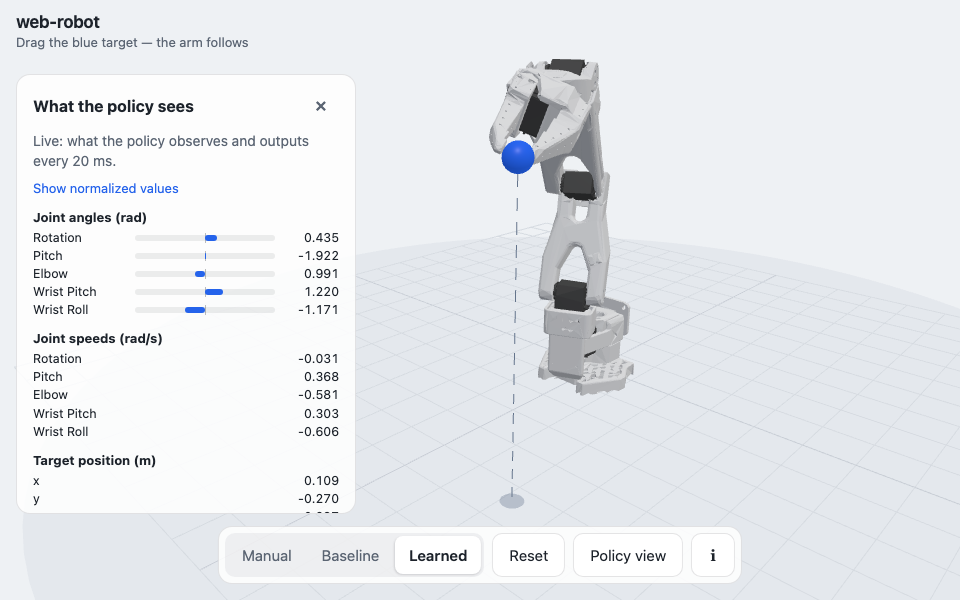
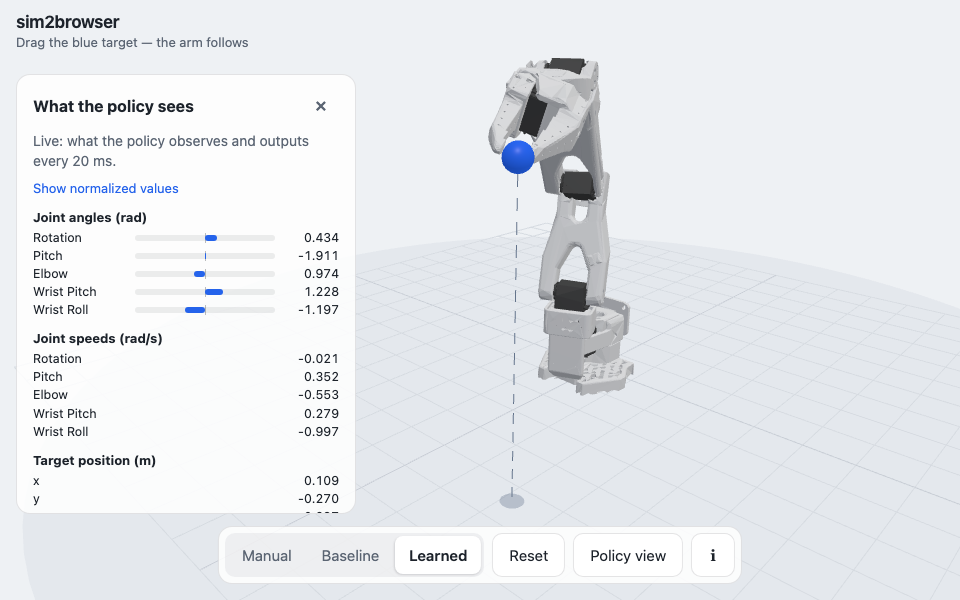
chore: rename project to sim2browser
Rename before publishing: 'web-robot' is shared by ~1000 repos, while
'sim2browser' names the pipeline (train in simulation, run a verified
copy in the browser) and stays accurate as the project grows.

- Site base path /web-robot/ -> /sim2browser/ (Vite, Playwright, e2e)
- Package names, page title and header, README, test hook
  window.__sim2browser, sessionStorage key
- Constitution v1.0.2 (PATCH): project name only, no principle changed
- tasks.md: note that completed tasks keep the original name as record
- Demo GIF and screenshot re-recorded with the new header
- Full suite re-run: 41 unit, 14 training, 6 parity, 43 e2e, size budget

diff --git a/web/tests/e2e/p1.spec.ts b/web/tests/e2e/p1.spec.ts
@@ -35,26 +35,26 @@ test.describe("P1: see and pose the arm @p1", () => {
     await page.waitForTimeout(500);
 
     // (b) dragging empty space orbits the camera
-    const cam0 = await page.evaluate(() => window.__webRobot.camera());
+    const cam0 = await page.evaluate(() => window.__sim2browser.camera());
     await page.mouse.move(60, 200);
     await page.mouse.down();
     await page.mouse.move(160, 240, { steps: 10 });
     await page.mouse.up();
     await page.waitForTimeout(300);
-    const cam1 = await page.evaluate(() => window.__webRobot.camera());
+    const cam1 = await page.evaluate(() => window.__sim2browser.camera());
     expect(cam0.some((v, i) => Math.abs(v - cam1[i]) > 1e-3)).toBe(true);
 
     // Reset the view angle influence: reload for a known camera.
     await page.reload();
     await waitReady(page);
     await page.waitForTimeout(500);
-    const limits = await page.evaluate(() => window.__webRobot.limits());
+    const limits = await page.evaluate(() => window.__sim2browser.limits());
 
     // (c) dragging the upper arm moves its joint (Pitch, index 1)
-    const qBefore = await page.evaluate(() => Array.from(window.__webRobot.snapshot!.q));
+    const qBefore = await page.evaluate(() => Array.from(window.__sim2browser.snapshot!.q));
     await dragLink(page, "Upper_Arm", 40, 0, 10);
     await page.waitForTimeout(600);
-    const qAfter = await page.evaluate(() => Array.from(window.__webRobot.snapshot!.q));
+    const qAfter = await page.evaluate(() => Array.from(window.__sim2browser.snapshot!.q));
     expect(Math.abs(qAfter[1] - qBefore[1])).toBeGreaterThan(0.05);
 
     // (d) dragging far past a limit holds the joint at its limit, with no teleports: joint speed
@@ -82,8 +82,8 @@ test.describe("P1: see and pose the arm @p1", () => {
     expect(maxSpeed).toBeLessThanOrEqual(4);
 
     // (e) 10 s of continuous posing stays smooth (SC-002)
-    await page.evaluate(() => window.__webRobot.resetFrameStats());
-    const pt = await page.evaluate(() => window.__webRobot.linkScreenPoint("Lower_Arm"));
+    await page.evaluate(() => window.__sim2browser.resetFrameStats());
+    const pt = await page.evaluate(() => window.__sim2browser.linkScreenPoint("Lower_Arm"));
     await page.mouse.move(pt![0], pt![1]);
     await page.mouse.down();
     const tEnd = Date.now() + 10_000;
@@ -95,8 +95,8 @@ test.describe("P1: see and pose the arm @p1", () => {
     }
     await page.mouse.up();
     const { fps, maxFrameGapMs } = await page.evaluate(() => ({
-      fps: window.__webRobot.fps,
-      maxFrameGapMs: window.__webRobot.maxFrameGapMs,
+      fps: window.__sim2browser.fps,
+      maxFrameGapMs: window.__sim2browser.maxFrameGapMs,
     }));
     info.annotations.push({ type: "fps", description: fps.toFixed(1) });
     info.annotations.push({ type: "max-frame-gap-ms", description: maxFrameGapMs.toFixed(1) });
@@ -113,12 +113,12 @@ test.describe("P1: see and pose the arm @p1", () => {
     await page.goto("./");
     await waitReady(page);
     await page.waitForTimeout(300);
-    const q0 = await page.evaluate(() => Array.from(window.__webRobot.snapshot!.q));
+    const q0 = await page.evaluate(() => Array.from(window.__sim2browser.snapshot!.q));
     await dragLink(page, "Upper_Arm", 80, 0, 10);
     await page.waitForTimeout(800);
     await page.getByRole("button", { name: "Reset" }).click();
     await page.waitForTimeout(300);
-    const q1 = await page.evaluate(() => Array.from(window.__webRobot.snapshot!.q));
+    const q1 = await page.evaluate(() => Array.from(window.__sim2browser.snapshot!.q));
     q1.forEach((v, j) => expect(Math.abs(v - q0[j])).toBeLessThan(0.02));
   });
 });

diff --git a/web/tests/e2e/p3.spec.ts b/web/tests/e2e/p3.spec.ts
@@ -2,7 +2,7 @@ import type { Page } from "@playwright/test";
 import { collectConsoleErrors, dragTarget, tipToTarget, waitReady } from "./helpers";
 import { expect, test } from "./fixtures";
 
-const mode = (page: Page) => page.evaluate(() => window.__webRobot.snapshot!.mode);
+const mode = (page: Page) => page.evaluate(() => window.__sim2browser.snapshot!.mode);
 const selectLearned = async (page: Page) => {
   await page.getByRole("button", { name: "Learned" }).click();
   await expect.poll(() => mode(page), { timeout: 10_000 }).toBe("learned");
@@ -19,13 +19,13 @@ test.describe("P3: learned policy vs. baseline @p3", () => {
     const errors = collectConsoleErrors(page);
     await selectLearned(page);
     await dragTarget(page, 70, 50);
-    expect(await page.evaluate(() => window.__webRobot.snapshot!.reachable)).toBe(true);
+    expect(await page.evaluate(() => window.__sim2browser.snapshot!.reachable)).toBe(true);
     const reached = await page.evaluate(
       () =>
         new Promise<boolean>((resolve) => {
           const end = performance.now() + 2000;
           const check = () => {
-            const s = window.__webRobot.snapshot!;
+            const s = window.__sim2browser.snapshot!;
             const d = Math.hypot(
               s.tip[0] - s.target[0],
               s.tip[1] - s.target[1],
@@ -50,13 +50,13 @@ test.describe("P3: learned policy vs. baseline @p3", () => {
     await page.waitForTimeout(150); // mid-reach
     for (const next of ["Baseline", "Learned", "Baseline"]) {
       const before = await page.evaluate(() => {
-        const s = window.__webRobot.snapshot!;
+        const s = window.__sim2browser.snapshot!;
         return { t: s.t, q: [...s.q], target: [...s.target] };
       });
       await page.getByRole("button", { name: next }).click();
       await expect.poll(() => mode(page)).toBe(next.toLowerCase());
       const after = await page.evaluate(() => {
-        const s = window.__webRobot.snapshot!;
+        const s = window.__sim2browser.snapshot!;
         return { t: s.t, q: [...s.q], target: [...s.target] };
       });
       expect(after.target).toEqual(before.target);
@@ -65,7 +65,9 @@ test.describe("P3: learned policy vs. baseline @p3", () => {
       const dt = after.t - before.t;
       after.q.forEach((v, j) => expect(Math.abs(v - before.q[j])).toBeLessThan(2.6 * dt + 0.02));
     }
-    expect(tipToTarget(await page.evaluate(() => window.__webRobot.snapshot!))).toBeLessThan(0.5);
+    expect(tipToTarget(await page.evaluate(() => window.__sim2browser.snapshot!))).toBeLessThan(
+      0.5,
+    );
   });
 
   test("the policy view updates live while dragging", async ({ page }) => {
@@ -75,7 +77,7 @@ test.describe("P3: learned policy vs. baseline @p3", () => {
     await expect(panel).toBeVisible();
     await expect(panel).toContainText("Joint angles");
     await expect(panel).toContainText("joint 5 command");
-    const pt = (await page.evaluate(() => window.__webRobot.targetScreenPoint()))!;
+    const pt = (await page.evaluate(() => window.__sim2browser.targetScreenPoint()))!;
     await page.mouse.move(pt[0], pt[1]);
     await page.mouse.down();
     const seen = new Set<string>();

diff --git a/web/tests/e2e/p2.spec.ts b/web/tests/e2e/p2.spec.ts
@@ -4,7 +4,7 @@ import { expect, test } from "./fixtures";
 type Snap = { t: number; tip: number[]; target: number[]; reachable: boolean; mode: string };
 const snap = (page: import("@playwright/test").Page) =>
   page.evaluate((): Snap => {
-    const s = window.__webRobot.snapshot!;
+    const s = window.__sim2browser.snapshot!;
     return { t: s.t, tip: [...s.tip], target: [...s.target], reachable: s.reachable, mode: s.mode };
   });
 
@@ -16,7 +16,7 @@ async function watch(page: import("@playwright/test").Page, ms: number): Promise
         const out: Snap[] = [];
         const end = performance.now() + ms;
         const rec = () => {
-          const s = window.__webRobot.snapshot!;
+          const s = window.__sim2browser.snapshot!;
           if (!out.length || out[out.length - 1].t !== s.t)
             out.push({
               t: s.t,
@@ -57,11 +57,11 @@ test.describe("P2: baseline reaches the target @p2", () => {
   });
 
   test("follows a continuous circular drag without stalls", async ({ page }) => {
-    const pt = (await page.evaluate(() => window.__webRobot.targetScreenPoint()))!;
+    const pt = (await page.evaluate(() => window.__sim2browser.targetScreenPoint()))!;
     // Start the circle on a reachable point a little toward the base.
     await dragTarget(page, 60, 30);
     await page.waitForTimeout(1500);
-    const c = (await page.evaluate(() => window.__webRobot.targetScreenPoint()))!;
+    const c = (await page.evaluate(() => window.__sim2browser.targetScreenPoint()))!;
     await page.mouse.move(c[0], c[1]);
     await page.mouse.down();
     const recording = watch(page, 3000);
@@ -93,7 +93,7 @@ test.describe("P2: baseline reaches the target @p2", () => {
     const touch =
       info.project.name === "mobile-chromium" ? await page.context().newCDPSession(page) : null;
     for (let i = 0; i < 30 && (await snap(page)).reachable; i++) {
-      const [x, y] = (await page.evaluate(() => window.__webRobot.targetScreenPoint()))!;
+      const [x, y] = (await page.evaluate(() => window.__sim2browser.targetScreenPoint()))!;
       if (!touch) {
         await page.mouse.move(x, y);
         await page.mouse.wheel(0, -120);

diff --git a/web/tests/e2e/helpers.ts b/web/tests/e2e/helpers.ts
@@ -23,14 +23,14 @@ export interface Hook {
 
 declare global {
   interface Window {
-    __webRobot: Hook;
+    __sim2browser: Hook;
     __qTrace?: { stop: boolean; rows: { t: number; q: number[] }[] };
   }
 }
 
 export async function waitReady(page: Page, timeout = 20_000) {
   await page.waitForFunction(
-    () => window.__webRobot?.ready && window.__webRobot.snapshot !== null,
+    () => window.__sim2browser?.ready && window.__sim2browser.snapshot !== null,
     null,
     {
       timeout,
@@ -45,7 +45,7 @@ export async function startQTrace(page: Page) {
     window.__qTrace = trace;
     const rec = () => {
       if (trace.stop) return;
-      const s = window.__webRobot.snapshot as unknown as { t: number; q: Float64Array } | null;
+      const s = window.__sim2browser.snapshot as unknown as { t: number; q: Float64Array } | null;
       const last = trace.rows[trace.rows.length - 1];
       if (s && (!last || s.t !== last.t)) trace.rows.push({ t: s.t, q: Array.from(s.q) });
       requestAnimationFrame(rec);
@@ -64,7 +64,7 @@ export async function stopQTrace(page: Page): Promise<{ t: number; q: number[] }
 
 /** Drag from the middle of a link with small mouse steps, one per frame. */
 export async function dragLink(page: Page, link: string, dx: number, dy: number, steps: number) {
-  const pt = await page.evaluate((l) => window.__webRobot.linkScreenPoint(l), link);
+  const pt = await page.evaluate((l) => window.__sim2browser.linkScreenPoint(l), link);
   if (!pt) throw new Error(`no screen point for ${link}`);
   await page.mouse.move(pt[0], pt[1]);
   await page.mouse.down();
@@ -86,7 +86,7 @@ export function collectConsoleErrors(page: Page): string[] {
 
 /** Drag the target by (dx, dy) pixels with one mouse step per frame. */
 export async function dragTarget(page: Page, dx: number, dy: number, steps = 20) {
-  const pt = await page.evaluate(() => window.__webRobot.targetScreenPoint());
+  const pt = await page.evaluate(() => window.__sim2browser.targetScreenPoint());
   if (!pt) throw new Error("no target on screen");
   await page.mouse.move(pt[0], pt[1]);
   await page.mouse.down();

diff --git a/web/tests/e2e/soak.spec.ts b/web/tests/e2e/soak.spec.ts
@@ -31,9 +31,9 @@ test("soak: random interaction stays healthy @soak", async ({ page }, info) => {
       __soak: { bad: string[]; lastT: number; lastAt: number; maxGap: number };
     };
     w.__soak = { bad: [], lastT: -1, lastAt: performance.now(), maxGap: 0 };
-    const limits = window.__webRobot.limits();
+    const limits = window.__sim2browser.limits();
     const check = () => {
-      const s = window.__webRobot.snapshot as unknown as {
+      const s = window.__sim2browser.snapshot as unknown as {
         t: number;
         q: Float64Array;
         tip: Float64Array;
@@ -74,7 +74,9 @@ test("soak: random interaction stays healthy @soak", async ({ page }, info) => {
     } else if (r < 0.35) {
       // Target drag (P2 on), sometimes far enough to leave the reachable workspace.
       const pt = await page.evaluate(() =>
-        "targetScreenPoint" in window.__webRobot ? window.__webRobot.targetScreenPoint() : null,
+        "targetScreenPoint" in window.__sim2browser
+          ? window.__sim2browser.targetScreenPoint()
+          : null,
       );
       if (pt && pt[0] > 0 && pt[1] > 0 && pt[0] < vp.width && pt[1] < vp.height) {
         const far = rand() < 0.3 ? 3 : 1;
@@ -91,7 +93,7 @@ test("soak: random interaction stays healthy @soak", async ({ page }, info) => {
       }
     } else if (r < 0.6) {
       const pt = await page.evaluate(
-        (l) => window.__webRobot.linkScreenPoint(l),
+        (l) => window.__sim2browser.linkScreenPoint(l),
         links[Math.floor(rand() * links.length)],
       );
       if (pt && pt[0] > 0 && pt[1] > 0 && pt[0] < vp.width && pt[1] < vp.height) {

diff --git a/web/tests/e2e/static-only.spec.ts b/web/tests/e2e/static-only.spec.ts
@@ -13,8 +13,8 @@ test("only static same-origin GETs, no backend @p1 @p2 @p3", async ({ page, base
     const ok =
       req.method() === "GET" &&
       url.origin === origin &&
-      url.pathname.startsWith("/web-robot/") &&
-      (url.pathname === "/web-robot/" || STATIC.test(url.pathname));
+      url.pathname.startsWith("/sim2browser/") &&
+      (url.pathname === "/sim2browser/" || STATIC.test(url.pathname));
     if (!ok) bad.push(`${req.method()} ${req.url()}`);
   });
   await page.goto("./");
@@ -25,7 +25,7 @@ test("only static same-origin GETs, no backend @p1 @p2 @p3", async ({ page, base
   await page.getByRole("button", { name: "Baseline" }).click();
   // P3: switching to Learned loads the policy lazily, still as static files.
   await page.getByRole("button", { name: "Learned" }).click();
-  await page.waitForFunction(() => window.__webRobot.snapshot?.mode === "learned");
+  await page.waitForFunction(() => window.__sim2browser.snapshot?.mode === "learned");
   await page.getByRole("button", { name: "About the controllers" }).click();
   await page.waitForTimeout(500);
   expect(bad).toEqual([]);

diff --git a/web/vite.config.ts b/web/vite.config.ts
@@ -3,7 +3,7 @@ import { extname, join, relative, resolve } from "node:path";
 import { gzipSync } from "node:zlib";
 import { defineConfig, type Plugin } from "vite";
 
-const BASE = "/web-robot/";
+const BASE = "/sim2browser/";
 const SHARED = resolve(import.meta.dirname, "../shared");
 /** Runtime assets served to the page. Parity fixtures and tooling files stay out of the build. */
 const SHIPPED = ["parity.json", "workspace.bin", "robot", "policy"];
@@ -40,7 +40,7 @@ function shippedFiles(): string[] {
 /** Serves ../shared at <base>shared/ in dev and copies it into dist/shared/ on build. */
 function sharedAssets(): Plugin {
   return {
-    name: "web-robot-shared",
+    name: "sim2browser-shared",
     configureServer(server) {
       server.middlewares.use(`${BASE}shared/`, (req, res, next) => {
         const rel = decodeURIComponent((req.url ?? "").split("?")[0]).replace(/^\/+/, "");

diff --git a/web/tests/e2e/lab.spec.ts b/web/tests/e2e/lab.spec.ts
@@ -11,11 +11,11 @@ test("lab controllers are hidden on the public page and usable with ?lab @p3", a
   await waitReady(page);
   await page.getByRole("button", { name: "Jacobian T" }).click();
   await expect
-    .poll(() => page.evaluate(() => window.__webRobot.snapshot!.mode))
+    .poll(() => page.evaluate(() => window.__sim2browser.snapshot!.mode))
     .toBe("jacobian-transpose");
   await dragTarget(page, 60, 30);
   await page.waitForTimeout(2500);
-  const s = await page.evaluate(() => window.__webRobot.snapshot!);
+  const s = await page.evaluate(() => window.__sim2browser.snapshot!);
   expect(tipToTarget(s)).toBeLessThan(0.05);
   await page.getByRole("button", { name: "About the controllers" }).click();
   await expect(page.getByRole("region", { name: "About the controllers" })).toContainText(

diff --git a/web/index.html b/web/index.html
@@ -4,7 +4,7 @@
     <meta charset="UTF-8" />
     <meta name="viewport" content="width=device-width, initial-scale=1, viewport-fit=cover" />
     <meta name="description" content="A robot arm in your browser, controlled live." />
-    <title>web-robot</title>
+    <title>sim2browser: a robot arm in your browser</title>
   </head>
   <body>
     <main id="app">
@@ -13,7 +13,7 @@
         aria-label="3D view of a robot arm. Drag the arm to pose its joints; drag elsewhere to orbit."
       ></canvas>
       <header class="brand">
-        <h1>web-robot</h1>
+        <h1>sim2browser</h1>
         <p>Drag the blue target — the arm follows</p>
       </header>
       <div class="toolbar" id="toolbar"></div>

diff --git a/web/playwright.config.ts b/web/playwright.config.ts
@@ -7,7 +7,7 @@ export default defineConfig({
   workers: 1,
   reporter: [["list"], ["html", { open: "never" }]],
   use: {
-    baseURL: "http://localhost:4173/web-robot/",
+    baseURL: "http://localhost:4173/sim2browser/",
     trace: "retain-on-failure",
   },
   projects: [
@@ -17,7 +17,7 @@ export default defineConfig({
   ],
   webServer: {
     command: "npm run build && npm run preview -- --port 4173 --strictPort",
-    url: "http://localhost:4173/web-robot/",
+    url: "http://localhost:4173/sim2browser/",
     reuseExistingServer: true,
     timeout: 120_000,
   },

diff --git a/web/src/app.ts b/web/src/app.ts
@@ -190,7 +190,7 @@ export function startApp({ worker, early, messages, init }: AppContext) {
   requestAnimationFrame(loop);
 
   // Read-only test hooks (contracts/ui.md); not a public API.
-  Object.defineProperty(window, "__webRobot", {
+  Object.defineProperty(window, "__sim2browser", {
     value: Object.freeze({
       get snapshot() {
         return latest;

diff --git a/web/src/ui/hint.ts b/web/src/ui/hint.ts
@@ -2,7 +2,7 @@
  * First-visit hint (FR-017): an animated marker on the part to drag, gone after the first
  * interaction and not shown again during the page session.
  */
-const KEY = "web-robot:interacted";
+const KEY = "sim2browser:interacted";
 
 function seen(): boolean {
   try {
